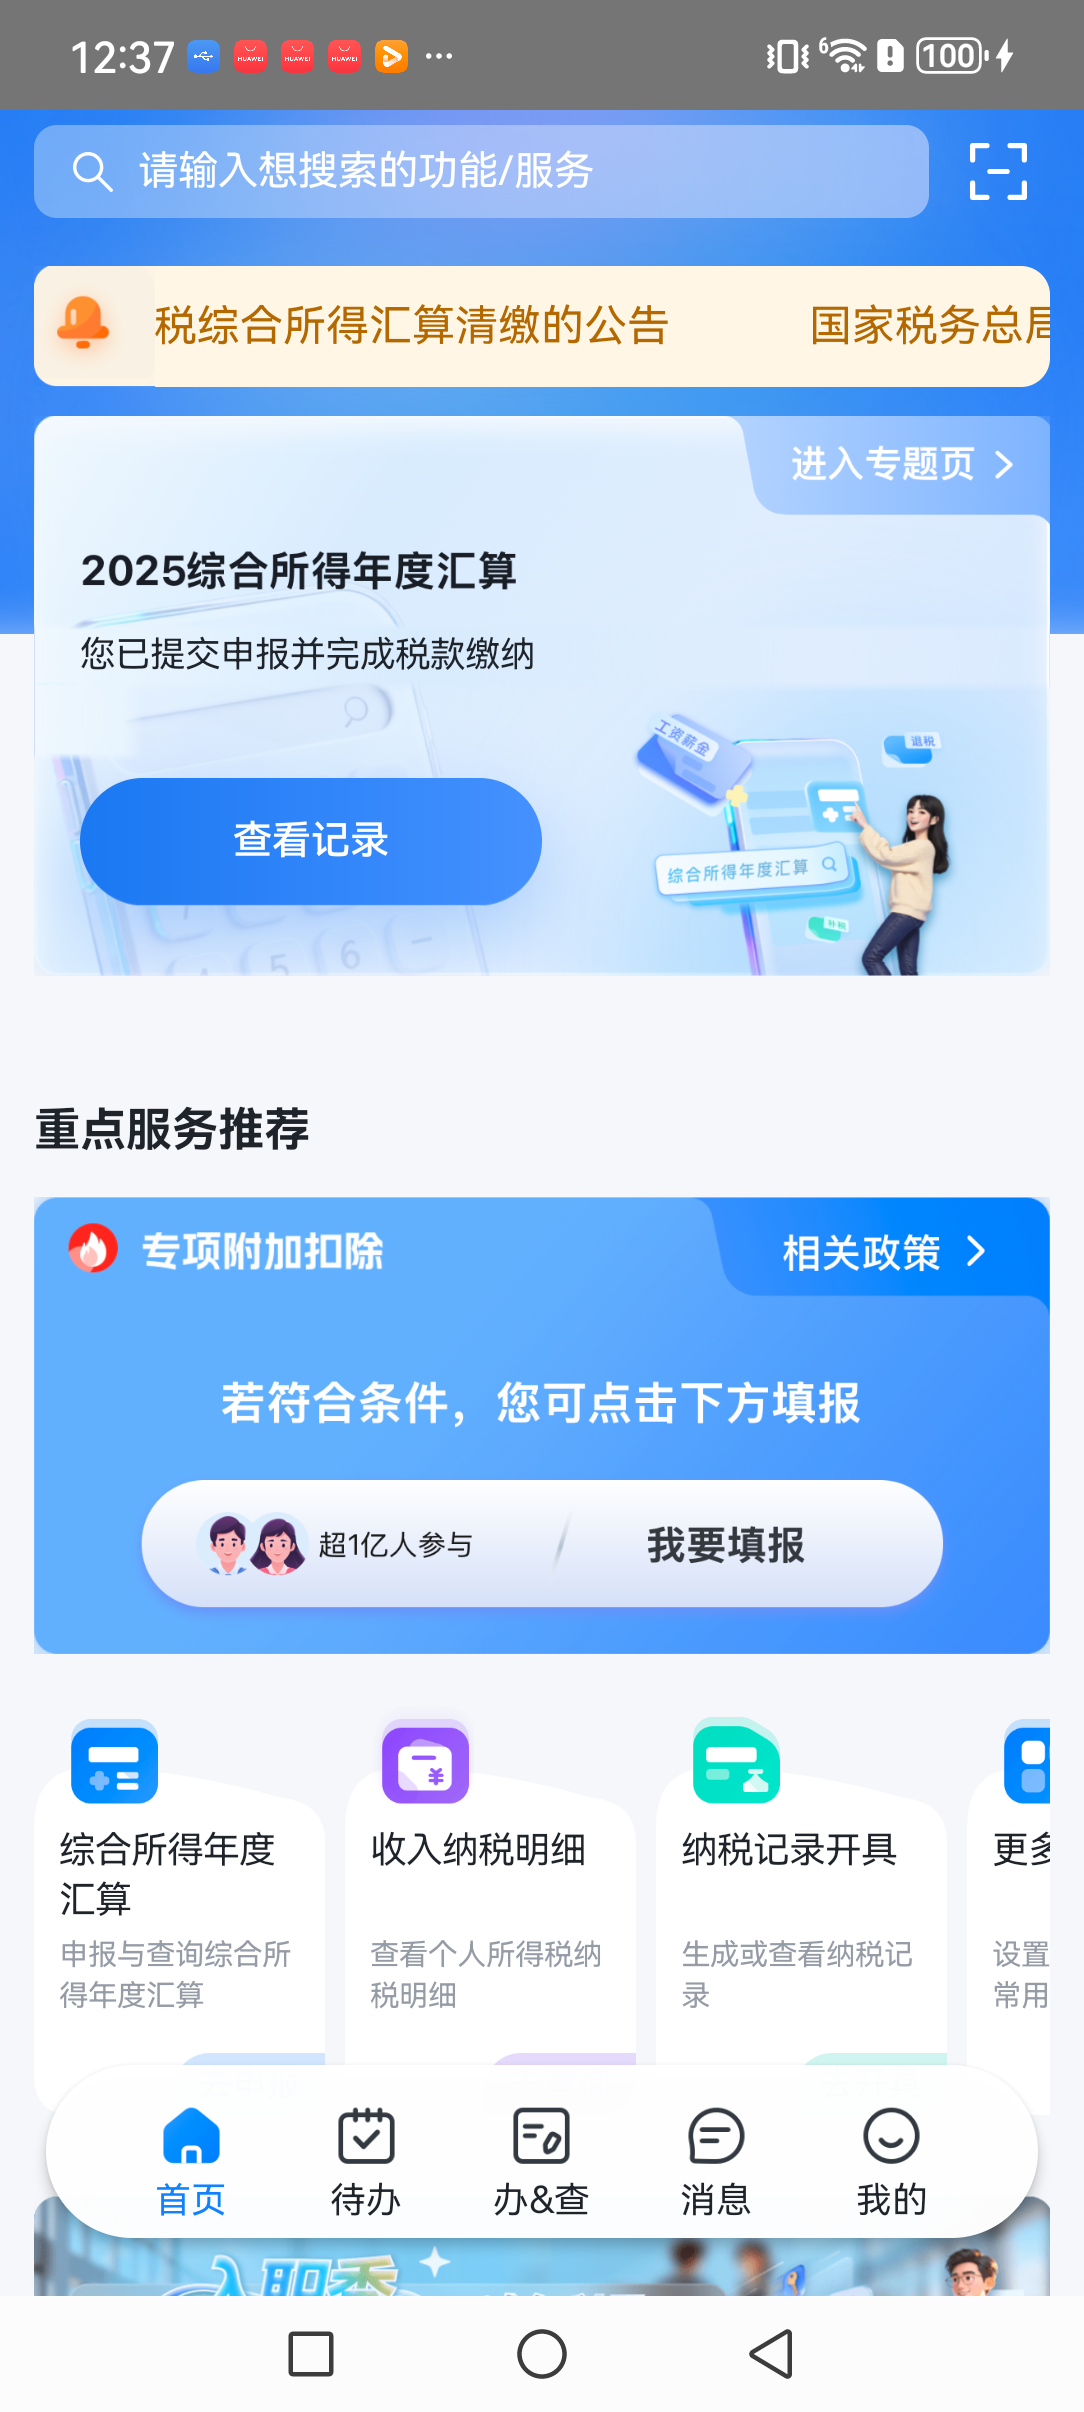
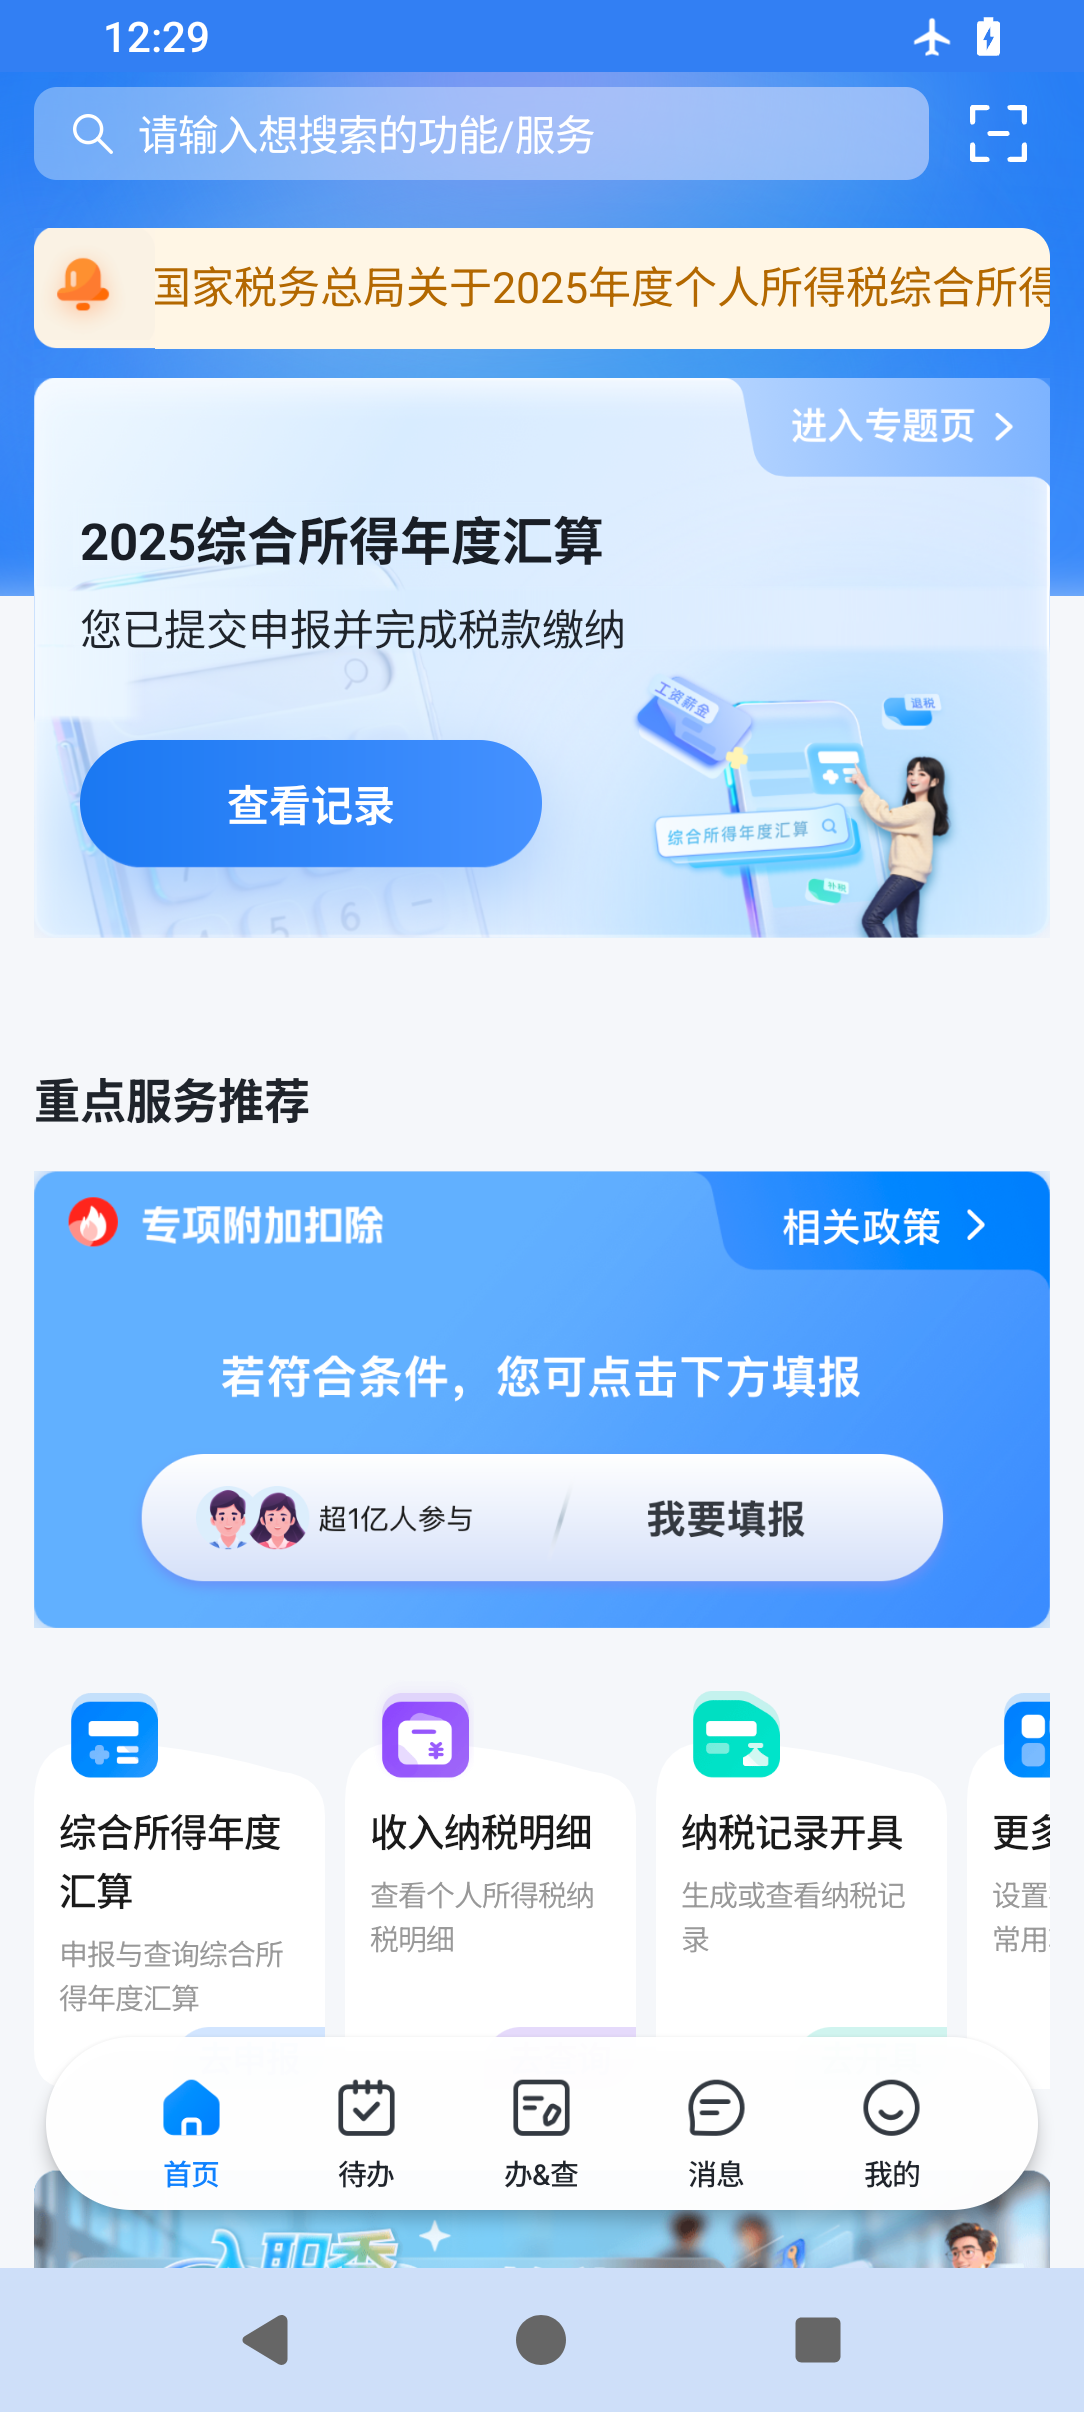
docs: 更新安卓首页与收入明细相关页面截图

diff --git a/docs/assets/promo/config.js b/docs/assets/promo/config.js
@@ -19,7 +19,7 @@ window.MOU_PROMO_CONFIG = {
         "price_cny": 179,
         "platform_label": "当前仅支持安卓",
         "payment_note": "目前仅支持安卓，暂不支持 iOS；iOS 版本近日即将更新。",
-        "image_url": "images/demo-income.png",
+        "image_url": "images/demo-income.png?v=c2b1c65bb758",
         "action_type": "activation_notice",
         "action_label": "下载安卓",
         "enabled": true,
@@ -71,7 +71,7 @@ window.MOU_PROMO_CONFIG = {
             {
               "type": "image",
               "attrs": {
-                "src": "images/demo-home.png",
+                "src": "images/demo-home.png?v=ffacd70dc6c0",
                 "alt": "个税模拟器首页，来自维护者 GitHub 的高清截图",
                 "caption": "首页功能入口 · 虚构资料示例",
                 "width": 60,
@@ -102,7 +102,7 @@ window.MOU_PROMO_CONFIG = {
             {
               "type": "image",
               "attrs": {
-                "src": "images/demo-query.png",
+                "src": "images/demo-query.png?v=97bf367df303",
                 "alt": "年度与所得类型查询高清截图",
                 "caption": "年度查询 · GitHub 原图",
                 "width": 60,
@@ -133,7 +133,7 @@ window.MOU_PROMO_CONFIG = {
             {
               "type": "image",
               "attrs": {
-                "src": "images/demo-income.png",
+                "src": "images/demo-income.png?v=c2b1c65bb758",
                 "alt": "收入纳税明细高清截图，均为虚构演示数据",
                 "caption": "收入纳税明细 · 虚构演示数据",
                 "width": 60,
@@ -233,7 +233,7 @@ window.MOU_PROMO_CONFIG = {
             {
               "type": "image",
               "attrs": {
-                "src": "images/android-income-list.png",
+                "src": "images/android-income-list.png?v=c2b1c65bb758",
                 "alt": "个税模拟器安卓纳税明细原图",
                 "caption": "纳税明细",
                 "width": 60,
@@ -277,7 +277,7 @@ window.MOU_PROMO_CONFIG = {
             {
               "type": "image",
               "attrs": {
-                "src": "images/android-income-detail.png",
+                "src": "images/android-income-detail.png?v=5ccd43504874",
                 "alt": "个税模拟器安卓纳税明细详情原图",
                 "caption": "纳税明细详情",
                 "width": 60,
@@ -397,7 +397,7 @@ window.MOU_PROMO_CONFIG = {
         "price_cny": 99,
         "platform_label": "录屏服务",
         "payment_note": "请先联系 QQ 确认录制内容与演示流程，付款后发送需求及付款凭证。",
-        "image_url": "images/demo-income.png",
+        "image_url": "images/demo-income.png?v=c2b1c65bb758",
         "action_type": "contact",
         "action_label": "咨询录屏",
         "enabled": true,
@@ -428,7 +428,7 @@ window.MOU_PROMO_CONFIG = {
             {
               "type": "image",
               "attrs": {
-                "src": "images/demo-home.png",
+                "src": "images/demo-home.png?v=ffacd70dc6c0",
                 "alt": "维护者 GitHub 高清演示素材",
                 "caption": "GitHub 演示素材参考 · 具体服务内容另行沟通",
                 "width": 60,
@@ -458,7 +458,7 @@ window.MOU_PROMO_CONFIG = {
             }
           ]
         },
-        "detail_image_url": "images/demo-home.png",
+        "detail_image_url": "images/demo-home.png?v=ffacd70dc6c0",
         "seo_path": "service-recording.html",
         "seo_title": "灵活就业指导",
         "seo_h1": "个税录屏与 App 演示视频制作",
@@ -473,7 +473,7 @@ window.MOU_PROMO_CONFIG = {
         "price_cny": 49,
         "platform_label": "材料图处理 · 收入明细 · 缴纳记录 · 资产证明 · 报表凭证",
         "payment_note": "请先联系 QQ 发送原图并确认修改需求，付款后发送付款凭证。",
-        "image_url": "images/demo-income.png",
+        "image_url": "images/demo-income.png?v=c2b1c65bb758",
         "action_type": "contact",
         "action_label": "咨询图片处理",
         "enabled": true,
@@ -504,7 +504,7 @@ window.MOU_PROMO_CONFIG = {
             {
               "type": "image",
               "attrs": {
-                "src": "images/demo-query.png",
+                "src": "images/demo-query.png?v=97bf367df303",
                 "alt": "维护者 GitHub 高清演示素材",
                 "caption": "GitHub 演示素材参考 · 具体服务内容另行沟通",
                 "width": 60,
@@ -534,7 +534,7 @@ window.MOU_PROMO_CONFIG = {
             }
           ]
         },
-        "detail_image_url": "images/demo-query.png",
+        "detail_image_url": "images/demo-query.png?v=97bf367df303",
         "seo_path": "service-image-editing.html",
         "seo_title": "灵活就业指导",
         "seo_h1": "图片处理",
@@ -575,11 +575,15 @@ window.MOU_PROMO_CONFIG = {
   },
   "phone_images": [
     {
-      "image_url": "images/demo-income.png",
+      "image_url": "images/demo-home.png?v=ffacd70dc6c0",
+      "title": "安卓首页"
+    },
+    {
+      "image_url": "images/demo-income.png?v=c2b1c65bb758",
       "title": "收入纳税明细"
     },
     {
-      "image_url": "images/demo-query.png",
+      "image_url": "images/demo-query.png?v=97bf367df303",
       "title": "年度查询"
     },
     {
@@ -595,7 +599,7 @@ window.MOU_PROMO_CONFIG = {
       "title": "我的页面"
     },
     {
-      "image_url": "images/android-income-list.png",
+      "image_url": "images/android-income-list.png?v=c2b1c65bb758",
       "title": "纳税明细"
     },
     {
@@ -603,7 +607,7 @@ window.MOU_PROMO_CONFIG = {
       "title": "资料设置总览"
     },
     {
-      "image_url": "images/android-income-detail.png",
+      "image_url": "images/android-income-detail.png?v=5ccd43504874",
       "title": "纳税明细详情"
     }
   ]

diff --git a/docs/index.html b/docs/index.html
@@ -14,7 +14,7 @@
   <link rel="icon" type="image/svg+xml" href="assets/promo/logo.svg">
   <link rel="stylesheet" href="assets/promo/site.css?v=20260923-purchase">
   <link rel="stylesheet" href="assets/promo/custom.css?v=20261113-disclaimer-preview">
-  <script defer src="assets/promo/config.js?v=20261113-site-revision"></script>
+  <script defer src="assets/promo/config.js?v=20261118-android-screenshots"></script>
   <script defer src="assets/promo/common.js"></script>
   <script defer src="assets/promo/site.js?v=20261113-disclaimer-preview"></script>
   <link rel="canonical" href="https://geshui.moujc.cn/">

diff --git a/docs/product-tax.html b/docs/product-tax.html
@@ -9,7 +9,7 @@
   <link rel="icon" type="image/svg+xml" href="assets/promo/logo.svg">
   <link rel="stylesheet" href="assets/promo/site.css">
   <link rel="stylesheet" href="assets/promo/detail.css">
-  <script defer src="assets/promo/config.js?v=20261113-site-revision"></script>
+  <script defer src="assets/promo/config.js?v=20261118-android-screenshots"></script>
   <link rel="stylesheet" href="assets/promo/custom.css?v=20261113-site-revision">
   <script defer src="assets/promo/common.js"></script>
   <script defer src="assets/promo/detail.js"></script>

diff --git a/docs/promo-detail.html b/docs/promo-detail.html
@@ -9,7 +9,7 @@
   <link rel="icon" type="image/svg+xml" href="assets/promo/logo.svg">
   <link rel="stylesheet" href="assets/promo/site.css">
   <link rel="stylesheet" href="assets/promo/detail.css">
-  <script defer src="assets/promo/config.js?v=20261113-site-revision"></script>
+  <script defer src="assets/promo/config.js?v=20261118-android-screenshots"></script>
   <link rel="stylesheet" href="assets/promo/custom.css?v=20261113-site-revision">
   <script defer src="assets/promo/common.js"></script>
   <script defer src="assets/promo/detail.js"></script>

diff --git a/README.md b/README.md
@@ -24,10 +24,12 @@
   <tr>
     <th align="center">收入纳税明细 · 模拟演示</th>
     <th align="center">年度与所得类型 · 模拟演示</th>
+    <th align="center">明细详情 · 安卓虚构示例</th>
   </tr>
   <tr>
-    <td align="center"><img src="docs/images/demo-income.png" width="300" alt="个税模拟器：收入汇总与月度收入列表，数值为演示数据"></td>
-    <td align="center"><img src="docs/images/demo-query.png" width="300" alt="个税模拟器：年度选择与所得类型筛选"></td>
+    <td align="center"><img src="docs/images/demo-income.png?v=c2b1c65bb758" width="300" alt="个税模拟器：收入汇总与月度收入列表，数值为演示数据"></td>
+    <td align="center"><img src="docs/images/demo-query.png?v=97bf367df303" width="300" alt="个税模拟器：年度选择与所得类型筛选"></td>
+    <td align="center"><img src="docs/images/android-income-detail.png?v=5ccd43504874" width="300" alt="安卓个税模拟器：虚构收入纳税明细详情"></td>
   </tr>
 </table>
 
@@ -43,7 +45,7 @@
 | 个人中心界面 | 展示个人信息、任职受雇、家庭成员与银行卡数量等界面 |
 | 截图与视频素材 | 使用手机系统截图、屏幕录制功能，记录页面切换与操作过程 |
 
-项目支持 **Android 安卓与 iPhone / iOS** 演示版本；当前截图和分步教程以 iPhone 版为例，安卓入口及功能范围以对应版本说明为准。本仓库公开完整使用指南与展示资料；演示版本的适用设备可向维护者咨询。
+项目支持 **Android 安卓与 iPhone / iOS** 演示版本；首页、年度筛选、收入明细及详情截图为 Android 版，分步教程及个人中心示例保留 iPhone 版。本仓库公开完整使用指南与展示资料；演示版本的适用设备可向维护者咨询。
 
 适合准备以下演示内容：
 
@@ -95,7 +97,7 @@
     <th align="center">我的 · 模拟演示</th>
   </tr>
   <tr>
-    <td align="center"><img src="docs/images/demo-home.png" width="300" alt="个税模拟器：首页功能入口与底部导航"></td>
+    <td align="center"><img src="docs/images/demo-home.png?v=ffacd70dc6c0" width="300" alt="个税模拟器：首页功能入口与底部导航"></td>
     <td align="center"><img src="docs/images/demo-mine.png" width="300" alt="个税模拟器：个人中心及已遮罩的演示识别号"></td>
   </tr>
 </table>
@@ -130,7 +132,7 @@
 
 ### 支持安卓和苹果手机吗？
 
-支持 Android 安卓与 iPhone / iOS 演示版本。联系维护者时说明手机品牌、机型与系统版本，确认适用版本与操作入口；现有截图和分步教程以 iPhone 为例。
+支持 Android 安卓与 iPhone / iOS 演示版本。联系维护者时说明手机品牌、机型与系统版本，确认适用版本与操作入口；首页、年度筛选、收入明细及详情截图为 Android 版，分步教程以 iPhone 为例。
 
 ### 个税模拟器可以截图和连续录屏吗？
 

diff --git a/GITEE.md b/GITEE.md
@@ -30,12 +30,17 @@
 <table>
   <tr><th>收入纳税明细 · 虚构示例</th><th>年度查询 · 模拟演示</th></tr>
   <tr>
-    <td><img src="docs/images/demo-income.png" width="280" alt="个税模拟器：虚构收入汇总和月度明细"></td>
-    <td><img src="docs/images/demo-query.png" width="280" alt="个税模拟器：选择年度和所得类型"></td>
+    <td><img src="docs/images/demo-income.png?v=c2b1c65bb758" width="280" alt="个税模拟器：虚构收入汇总和月度明细"></td>
+    <td><img src="docs/images/demo-query.png?v=97bf367df303" width="280" alt="个税模拟器：选择年度和所得类型"></td>
+  </tr>
+  <tr><th>安卓首页 · 模拟演示</th><th>明细详情 · 虚构示例</th></tr>
+  <tr>
+    <td><img src="docs/images/demo-home.png?v=ffacd70dc6c0" width="280" alt="安卓个税模拟器：首页与年度汇算入口"></td>
+    <td><img src="docs/images/android-income-detail.png?v=5ccd43504874" width="280" alt="安卓个税模拟器：虚构收入纳税明细详情"></td>
   </tr>
 </table>
 
-当前截图和分步按钮路径以 iPhone 版为例。Android 的具体入口与功能范围以对应版本说明为准。
+以上截图为 Android 版虚构示例；分步教程保留 iPhone 版按钮路径。
 
 ## 版本与问题反馈
 

diff --git a/docs/images/README.md b/docs/images/README.md
@@ -4,9 +4,10 @@
 
 | 图片 | 展示内容 |
 | --- | --- |
-| [demo-home.png](demo-home.png) | 首页与功能入口 |
-| [demo-query.png](demo-query.png) | 年度选择与所得类型筛选 |
-| [demo-income.png](demo-income.png) | 收入汇总与月度明细 |
+| [demo-home.png](demo-home.png) | 安卓首页与功能入口 |
+| [demo-query.png](demo-query.png) | 安卓年度选择与所得类型展开筛选 |
+| [demo-income.png](demo-income.png) | 安卓收入汇总与月度明细 |
+| [android-income-detail.png](android-income-detail.png) | 安卓收入纳税明细详情 |
 | [demo-mine.png](demo-mine.png) | 个人中心与任职信息入口 |
 
 画面用于模拟演示，与官方税务记录无关。对外展示时请保留相应说明。
